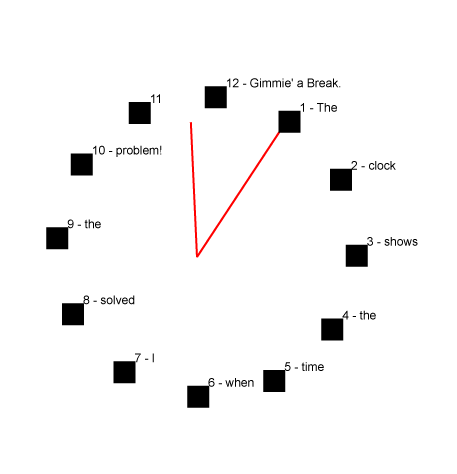
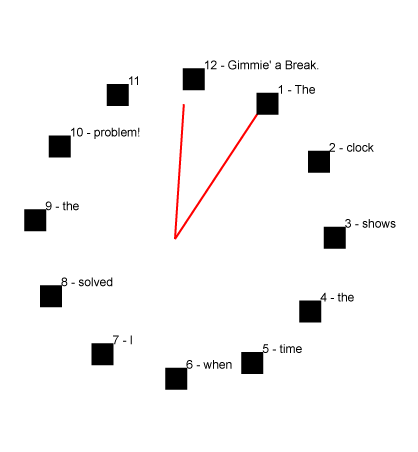
If you are commiting after the deadline you have to do it in style ! :) P.S Final Commit

diff --git a/class16_homework/Mihail_Kirilov/graph_drawer.rb b/class16_homework/Mihail_Kirilov/graph_drawer.rb
@@ -4,6 +4,12 @@ require_relative "drawer"
 d = Drawer.new "graph.svg", 300,350
 d.start
 
+class Numeric
+  def degrees
+    self * Math::PI / 180
+  end
+end
+
 class GraphDrawer
 	
 	attr_accessor :vs
@@ -23,14 +29,14 @@ class GraphDrawer
 	
 	private 
 	def calculate_positions
-		inc = (2*Math::PI)/vs.length
-		angle = 90 - 2*inc
+		p inc = (360/vs.length).degrees
+		angle =90 - 2*inc
 		vs.each_index do |n|
 			vs[n].x = 150*Math.cos(angle)
 			vs[n].y = 150*Math.sin(angle)
 			angle -= inc
 		end
-		@drawer.line 0,0,vs[-1].x-15,vs[-1].y-15
+		@drawer.line 0,0,vs[-1].x,vs[-1].y-15
 		@drawer.line 0,0,vs[0].x,vs[0].y
 	end
 	
